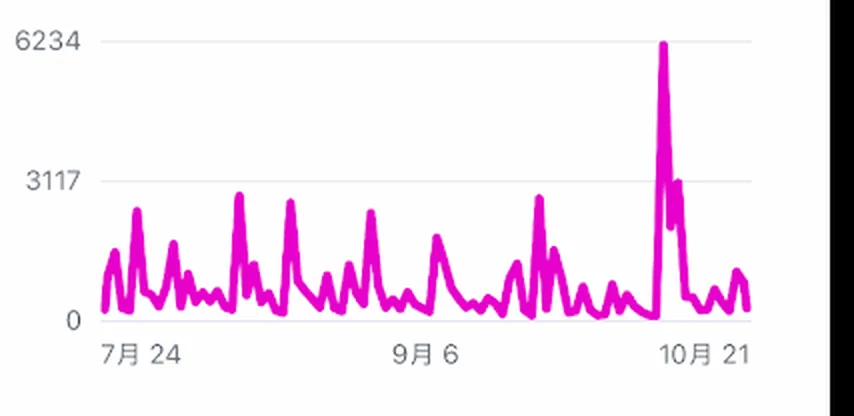
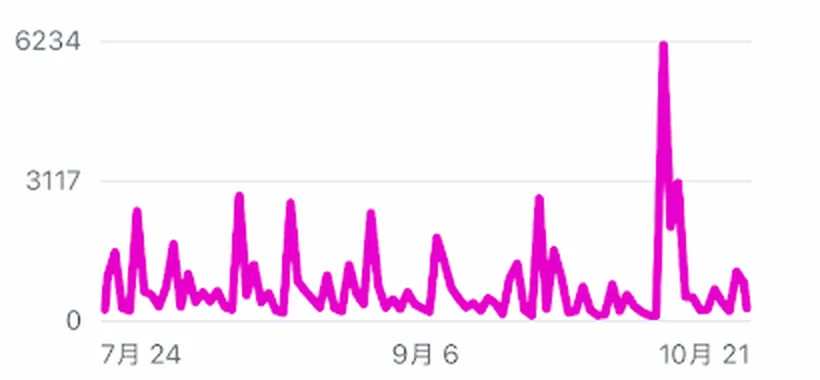
実績セクション: グラフ画像を同一サイズに再切り出し(画面端の黒帯を除去)、表記を「赤坂のフレンチレストラン様」「池袋の居酒屋様」に変更

diff --git a/index.html b/index.html
@@ -709,14 +709,14 @@
                     <div class="flex items-start justify-between gap-4 mb-4">
                         <div>
                             <p class="label-tag mb-1.5" style="color:#c8a97e">CASE 01</p>
-                            <h3 class="text-lg md:text-xl font-bold" style="letter-spacing:0.04em">赤坂のフレンチ</h3>
+                            <h3 class="text-lg md:text-xl font-bold" style="letter-spacing:0.04em">赤坂のフレンチレストラン様</h3>
                             <p class="text-xs text-gray-400 font-light mt-1"><span class="inline-block">東京都港区</span><span class="inline-block">／ フォロワー約3,000</span></p>
                         </div>
                         <span class="label-tag text-gray-500 flex-shrink-0 mt-1">90日間</span>
                     </div>
                     <p class="text-sm text-gray-300 font-light leading-relaxed mb-5"><span class="inline-block">90日間の閲覧数7.5万のうち、</span><span class="inline-block"><strong class='text-white font-medium'>60%がフォロワー以外</strong>から。</span><span class="inline-block">フォロワーに届けるだけでなく、</span><span class="inline-block">リールでまだ来店したことのない層に</span><span class="inline-block">お店を知ってもらう運用です。</span></p>
                     <figure class="mb-5 bg-white rounded-sm overflow-hidden">
-                        <img src="images/insight-case1.webp" alt="赤坂のフレンチ（東京都港区）のInstagram閲覧数の推移グラフ（2026年7月24日〜10月21日）" class="w-full h-auto" loading="lazy" width="854" height="416">
+                        <img src="images/insight-case1.webp" alt="赤坂のフレンチレストラン様（東京都港区）のInstagram閲覧数の推移グラフ（2026年7月24日〜10月21日）" class="w-full h-auto" loading="lazy" width="820" height="380">
                         <figcaption class="text-[10px] text-gray-500 px-3 py-1.5 bg-gray-50">閲覧数の推移（7/24〜10/21）</figcaption>
                     </figure>
                     <dl class="grid grid-cols-2 gap-2.5 mt-auto">
@@ -750,14 +750,14 @@
                     <div class="flex items-start justify-between gap-4 mb-4">
                         <div>
                             <p class="label-tag mb-1.5" style="color:#c8a97e">CASE 02</p>
-                            <h3 class="text-lg md:text-xl font-bold" style="letter-spacing:0.04em">池袋の居酒屋</h3>
+                            <h3 class="text-lg md:text-xl font-bold" style="letter-spacing:0.04em">池袋の居酒屋様</h3>
                             <p class="text-xs text-gray-400 font-light mt-1"><span class="inline-block">東京都豊島区</span><span class="inline-block">／ フォロワー678</span></p>
                         </div>
                         <span class="label-tag text-gray-500 flex-shrink-0 mt-1">90日間</span>
                     </div>
                     <p class="text-sm text-gray-300 font-light leading-relaxed mb-5"><span class="inline-block">フォロワー678のアカウントで、</span><span class="inline-block">90日間に<strong class='text-white font-medium'>14万再生</strong>。</span><span class="inline-block">1本のリールが7.8万再生に届き、</span><span class="inline-block">フォロワーは純増38（+5.9%）。</span><span class="inline-block">小さなアカウントでも、</span><span class="inline-block">動画の設計次第で届く範囲は変わります。</span></p>
                     <figure class="mb-5 bg-white rounded-sm overflow-hidden">
-                        <img src="images/insight-case2.webp" alt="池袋の居酒屋（東京都豊島区）のInstagram再生数の推移グラフ（2026年9月22日〜10月21日）" class="w-full h-auto" loading="lazy" width="864" height="380">
+                        <img src="images/insight-case2.webp" alt="池袋の居酒屋様（東京都豊島区）のInstagram再生数の推移グラフ（2026年9月22日〜10月21日）" class="w-full h-auto" loading="lazy" width="820" height="380">
                         <figcaption class="text-[10px] text-gray-500 px-3 py-1.5 bg-gray-50">再生数の推移（9/22〜10/21）</figcaption>
                     </figure>
                     <dl class="grid grid-cols-2 gap-2.5 mt-auto">

diff --git a/CLAUDE.md b/CLAUDE.md
@@ -28,7 +28,7 @@ https://fukuya-fs.com — 飲食店専門のSNS・MEOコンサルティング「
 - セクション構成(id): ヒーロー → `glance`(一目でわかるFukuya: 事業の定義文+料金/経験/エリア/返信目安の4タイル。AI検索経由の訪問者向け、2026-10-22新設) → `pain` → `worldview` → `results`(実績: クライアント2店舗のInstagramインサイト実測値。2026-10-23新設) → `pricing`(SNSプラン) → `lp`(LP制作。AIO標準搭載の訴求バンドあり) → `apps` → `menu`(メニュー作成) → `reasons` → `promises` → `profile` → `faq` → `contact`(フォーム前に「お問い合わせの流れ」3ステップあり)。※2026-08-02にサービス順を「SNS→LP→アプリ→メニュー」に再編。旧id `spots` は廃止
 - **モバイルファースト(2026-10-22):** スマホ(375px)での不自然な改行を防ぐため、見出し・短文・価格表ラベルは文節ごとに `<span class="inline-block">…</span>` で囲む方針(`h1,h2,h3 { text-wrap: balance }` も併用)。価格表の金額側は `whitespace-nowrap`、ラベル側は折返し可。テキストを編集したら必ず375px幅で確認すること。スマホには固定CTAバー(`#mobile-cta`、スクロール500px以降に表示、`#contact`・フッター表示中は非表示)がある
 - **構造化データ(2026-10-22刷新):** 事業者情報は `@graph` で Organization(ProfessionalService)/Person/WebSite/WebPage を `@id` で連結し、`hasOfferCatalog` に全サービス価格を保持。価格・サービス変更時はここも更新し、WebPageの `dateModified` を更新する
-- **実績セクションのポリシー(2026-10-23):** 店名は出さず「赤坂のフレンチ」「池袋の居酒屋」のように地名+業態で表記(クライアントの了承取得済み)。数値はInstagramインサイトの実測値をそのまま載せ、加工しない・成果を保証しない注記を必ず残す。前期間比がマイナスの店舗は比較%を載せず絶対値で示す(隠すのではなく「比較を載せない」だけ。聞かれたら正直に説明)。グラフ画像は `images/insight-case*.webp`(スクショからグラフ部分のみ切り出し、サムネイル・投稿文・アカウント名を含めない)。数値更新時はllms.txtの「実績」節も同期
+- **実績セクションのポリシー(2026-10-23):** 店名は出さず「赤坂のフレンチレストラン様」「池袋の居酒屋様」のように地名+業態で表記(クライアントの了承取得済み)。数値はInstagramインサイトの実測値をそのまま載せ、加工しない・成果を保証しない注記を必ず残す。前期間比がマイナスの店舗は比較%を載せず絶対値で示す(隠すのではなく「比較を載せない」だけ。聞かれたら正直に説明)。グラフ画像は `images/insight-case*.webp`(スクショからグラフ部分のみ切り出し、サムネイル・投稿文・アカウント名を含めない)。数値更新時はllms.txtの「実績」節も同期
 - 世界観の軸: 「IT会社でも広告代理店でもなく、飲食の現場出身」という差別化。ヒーローのバッジ・painセクション末尾・各サービスのキャッチ・プロフィールで一貫させる
 - `<head>` にJSON-LD構造化データが2つ(ProfessionalService と FAQPage)ある。**FAQセクションの文言を変えたらFAQPage JSON-LDも必ず同期させること**(Googleのガイドラインで表示内容と一致が必須)
 - 代表者は寺島久雄(サイト上に公開済み。顔写真は使わない方針)
